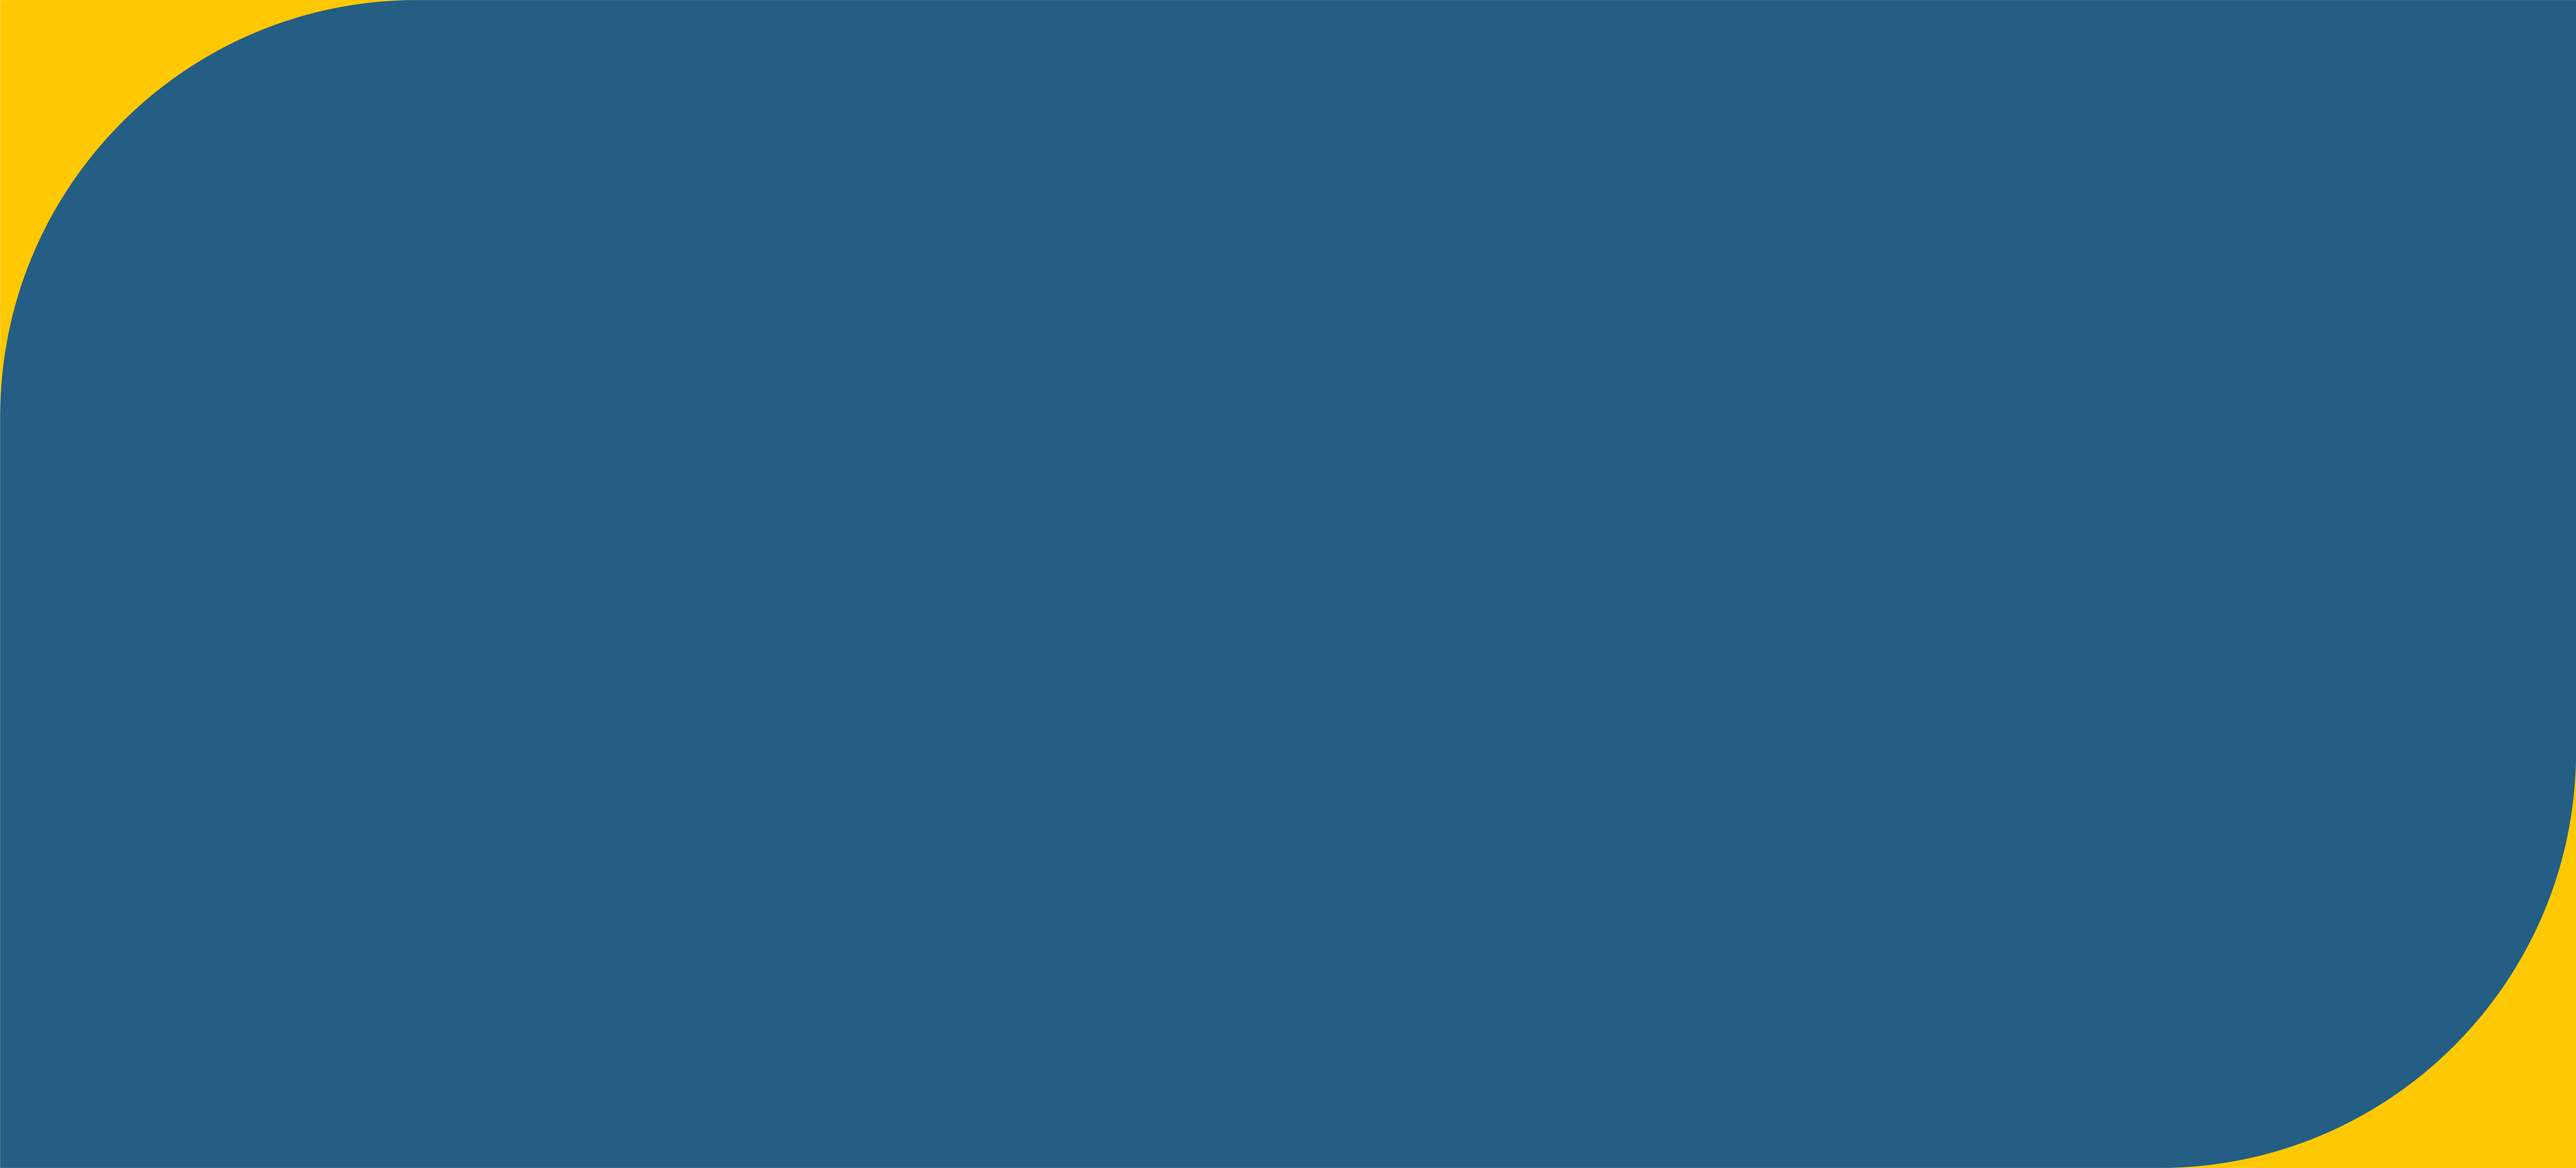
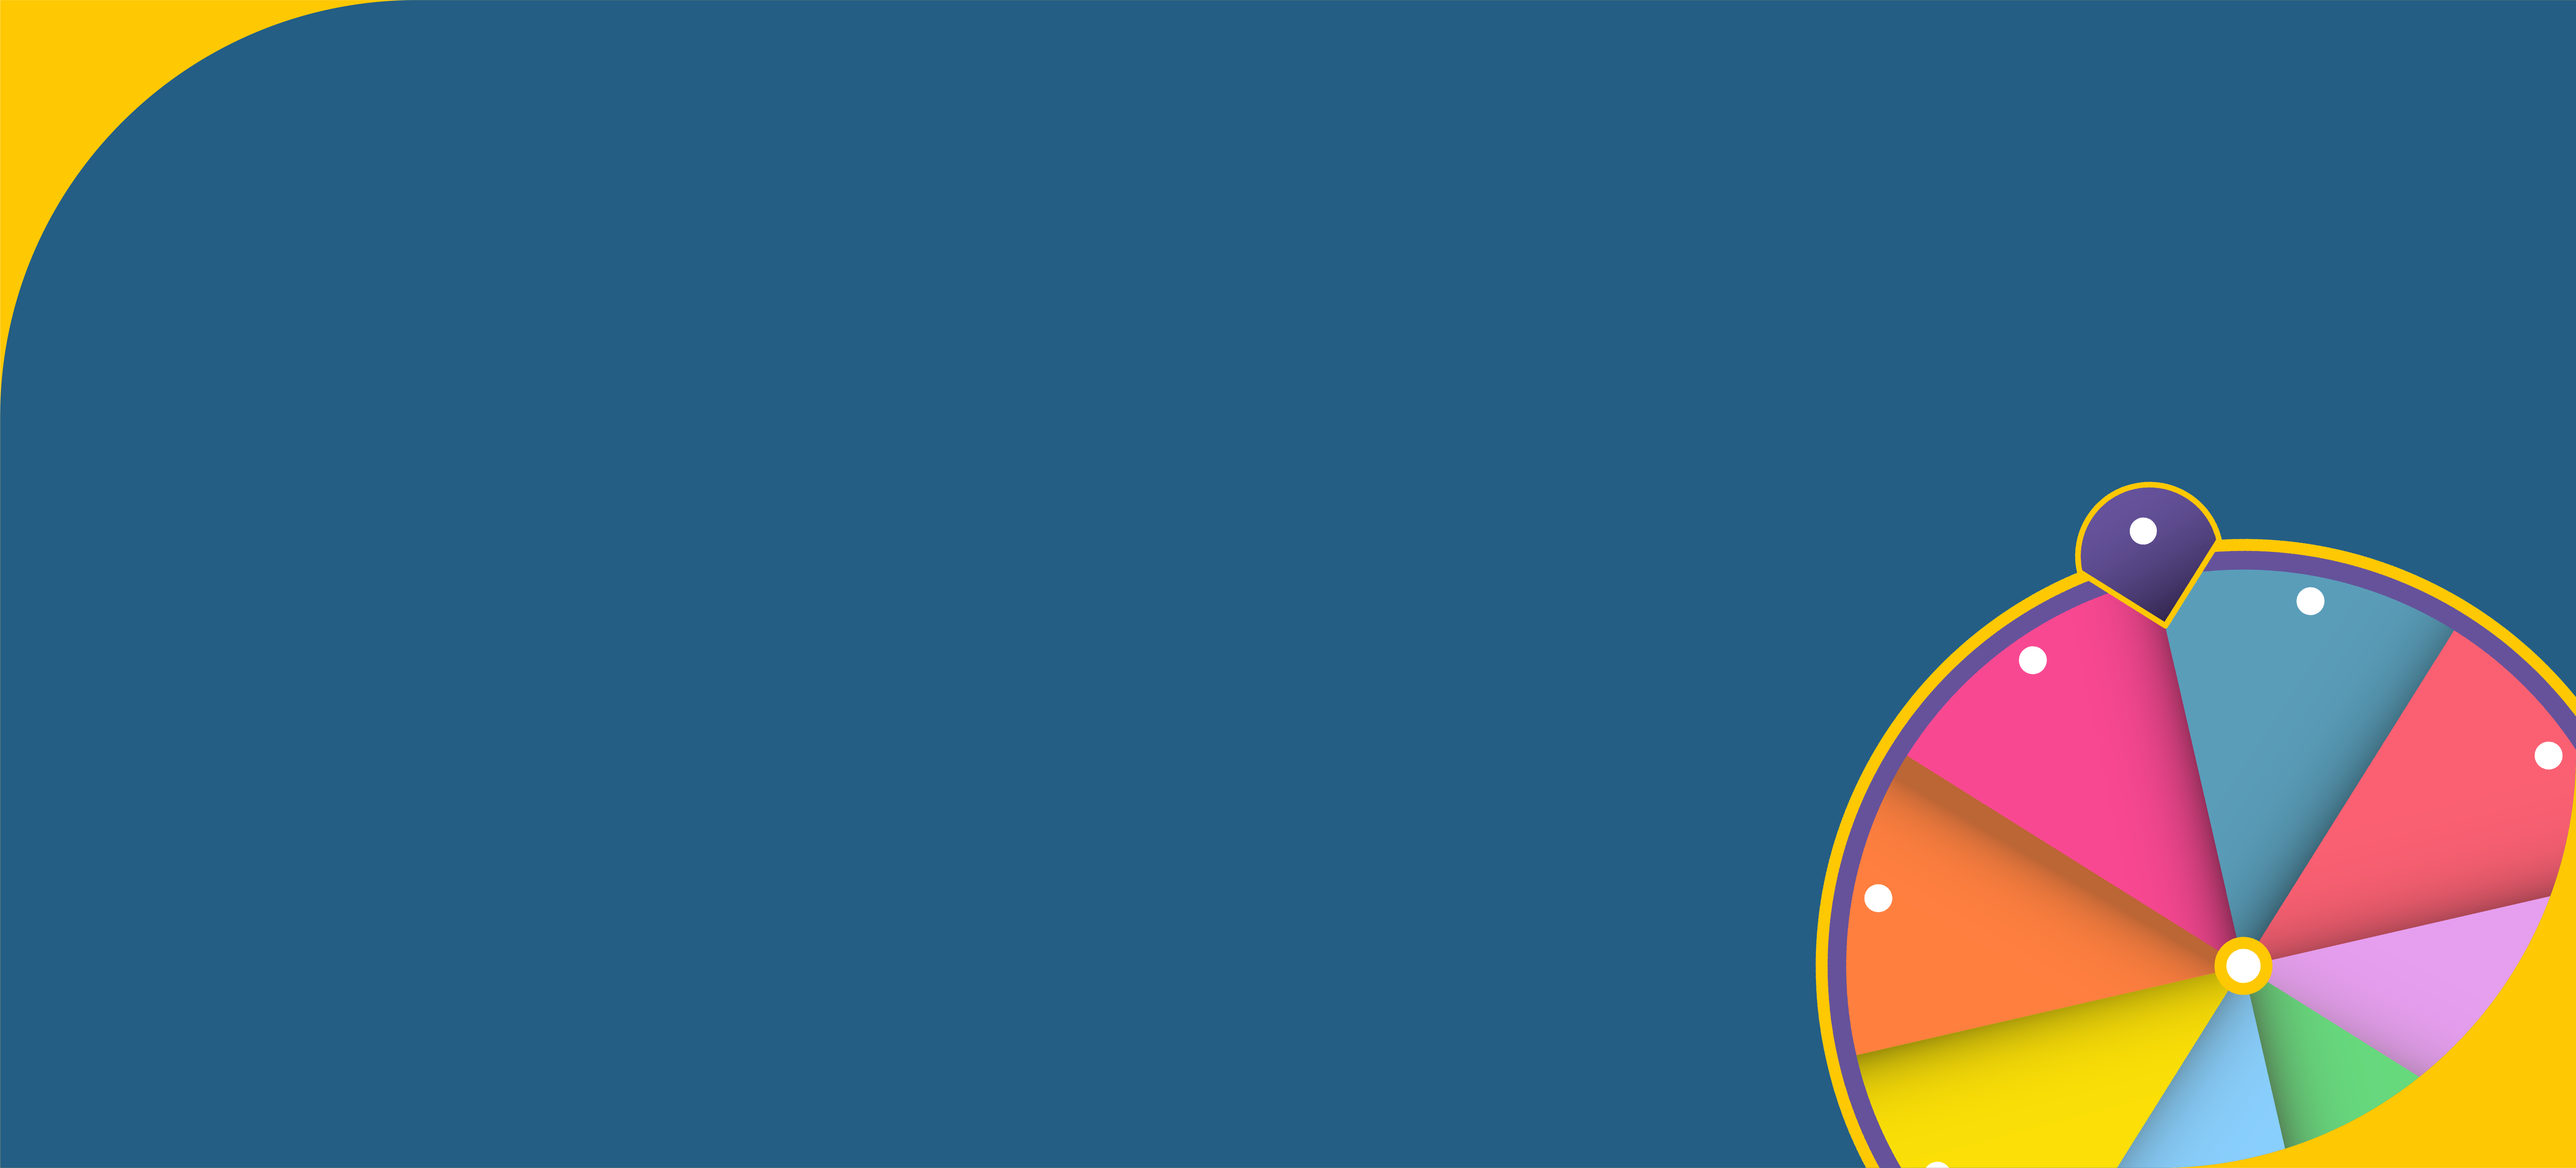
updated .env and bg1

Changed region(s): [[0.6873, 0.4052, 1.0, 1.0]]

diff --git a/src/styles/main.scss b/src/styles/main.scss
@@ -24,8 +24,6 @@ h4{
     margin-bottom: 20px;
 }
 
-
-
 .library-index{
     width: 95%;
     height: 600px;
@@ -36,6 +34,7 @@ h4{
     padding: 0 3em;
     align-items: center;
     background-image: url(../assets/library_bg.png);
+    background-repeat: no-repeat;
     background-position: center;
     background-size: 100%;
     margin-top: 30px;
@@ -108,12 +107,14 @@ h4{
     padding: 0 3em;
     align-items: center;
     background-image: url(../assets/ruleta_bg.png);
+    background-repeat: no-repeat;
     background-position: center;
     background-size: 100%;
 
     h1{
         margin-top: 50px;
-        text-decoration: underline;
+        text-decoration: underline var(--yellow);
+        
     }
 
     #bottom{
@@ -135,7 +136,6 @@ h4{
     #ruleta1{
         width: 400px;
         height: 400px;
-        background-image: url('../assets/arrow_shape.png');
         background-size: cover;
         background-position: center;
     }
@@ -147,6 +147,7 @@ h4{
     width: 95%;
     height: 600px;
     background-image: url('../assets/qa_bg.png');
+    background-repeat: no-repeat;
     background-size: 100%;
     background-position: center;
     margin: 0 auto;
@@ -179,6 +180,7 @@ h4{
     #qagame-index-right{
         width: 50%;
         height: 100%;
+        aspect-ratio: 16/9;
         background-image: url('../assets/books2.png');
         background-size: cover;
         background-position: center;

diff --git a/src/config/firebase.config.ts b/src/config/firebase.config.ts
@@ -1,16 +1,15 @@
-import { initializeApp } from "firebase/app";
+import { initializeApp } from 'firebase/app';
 
 const firebaseConfig = {
-  apiKey: "AIzaSyC7OnSc7dJVU6cASwE7IDZm22sf85abNEU",
-  authDomain: "feriadellibro-23820.firebaseapp.com",
-  projectId: "feriadellibro-23820",
-  storageBucket: "feriadellibro-23820.appspot.com",
-  messagingSenderId: "128625577866",
-  appId: "1:128625577866:web:17e7349e199a7b49c78273",
-  measurementId: "G-8X5DL7H1QX"
+  apiKey: import.meta.env.VITE_FIREBASE_API_KEY,
+  authDomain: import.meta.env.VITE_FIREBASE_AUTH_DOMAIN,
+  projectId: import.meta.env.VITE_FIREBASE_PROJECT_ID,
+  storageBucket: import.meta.env.VITE_FIREBASE_STORAGE_BUCKET,
+  messagingSenderId: import.meta.env.VITE_FIREBASE_MESSAGING_SENDER_ID,
+  appId: import.meta.env.VITE_FIREBASE_APP_ID,
+  measurementId: import.meta.env.VITE_FIREBASE_MEASUREMENT_ID,
 };
 
-// Initialize Firebase
-const app = initializeApp(firebaseConfig);
+const firebaseApp = initializeApp(firebaseConfig);
 
-export {app}
+export default firebaseApp;

diff --git a/src/components/Library/Library.tsx b/src/components/Library/Library.tsx
@@ -1,11 +1,11 @@
 import { useEffect, useState } from 'react'
 import BookCard from './BookCard'
-import { app } from '../../config/firebase.config';
+import firebaseApp from '../../config/firebase.config';
 import { getDocs, getFirestore, collection } from "firebase/firestore"
 
 export default function Library() {
     const [books, setBooks] = useState<Book[]>([]);
-    const db = getFirestore(app);
+    const db = getFirestore(firebaseApp);
     
     useEffect(() => {
         const fetchData = async () => {

diff --git a/src/components/ui/Header.tsx b/src/components/ui/Header.tsx
@@ -1,9 +1,9 @@
 function Header() {
   return (
     <>
-        <header style={{width: '100%', height: '80px', background: 'yellow'}}>
-            <h2 style={{textAlign: 'center'}}>Feria del libro</h2>
-        </header>
+      <header style={{ width: '100%', height: '80px', background: 'yellow' }}>
+        <h2 style={{ textAlign: 'center' }}>Feria del libro</h2>
+      </header>
     </>
   )
 }

diff --git a/src/components/Library/BookCard.tsx b/src/components/Library/BookCard.tsx
@@ -1,5 +1,3 @@
-
-
 export default function BookCard(props: Book){
     return(
         <>
